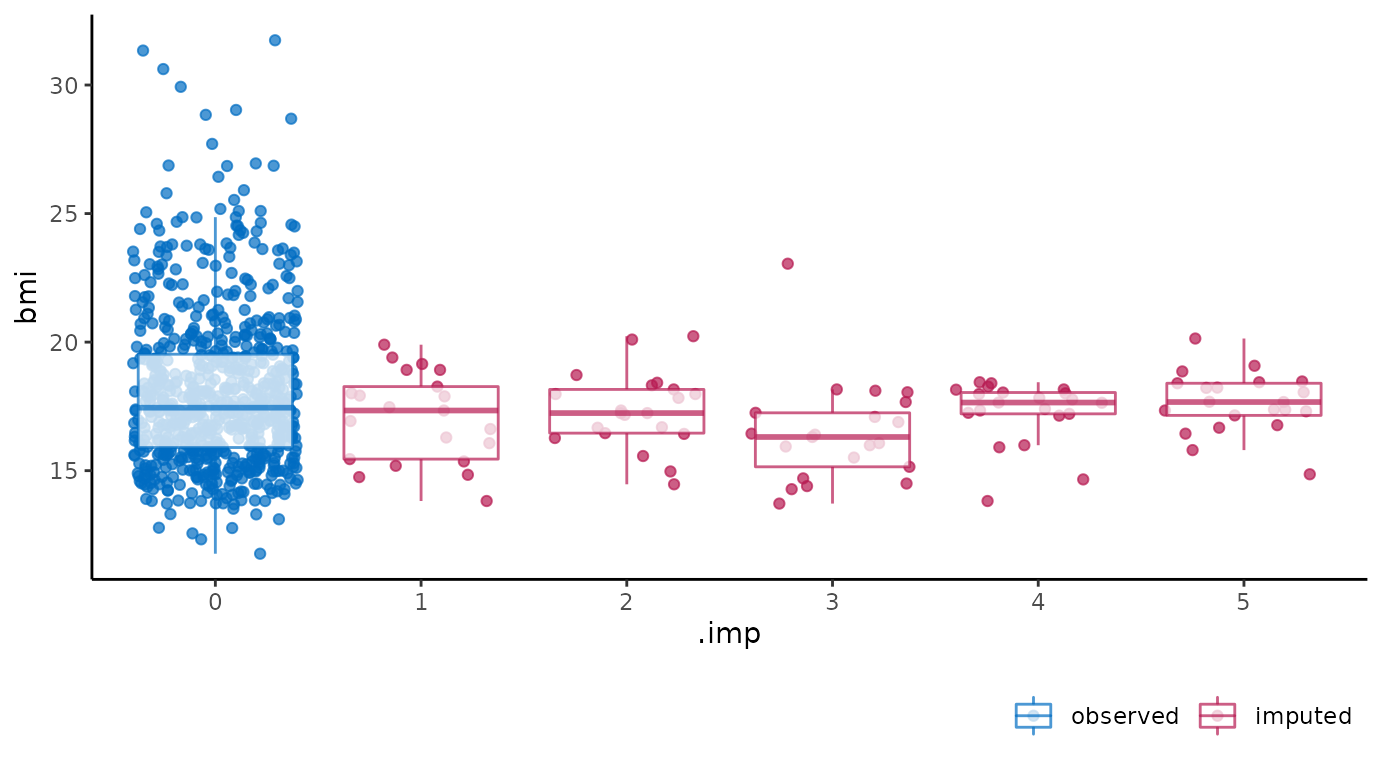
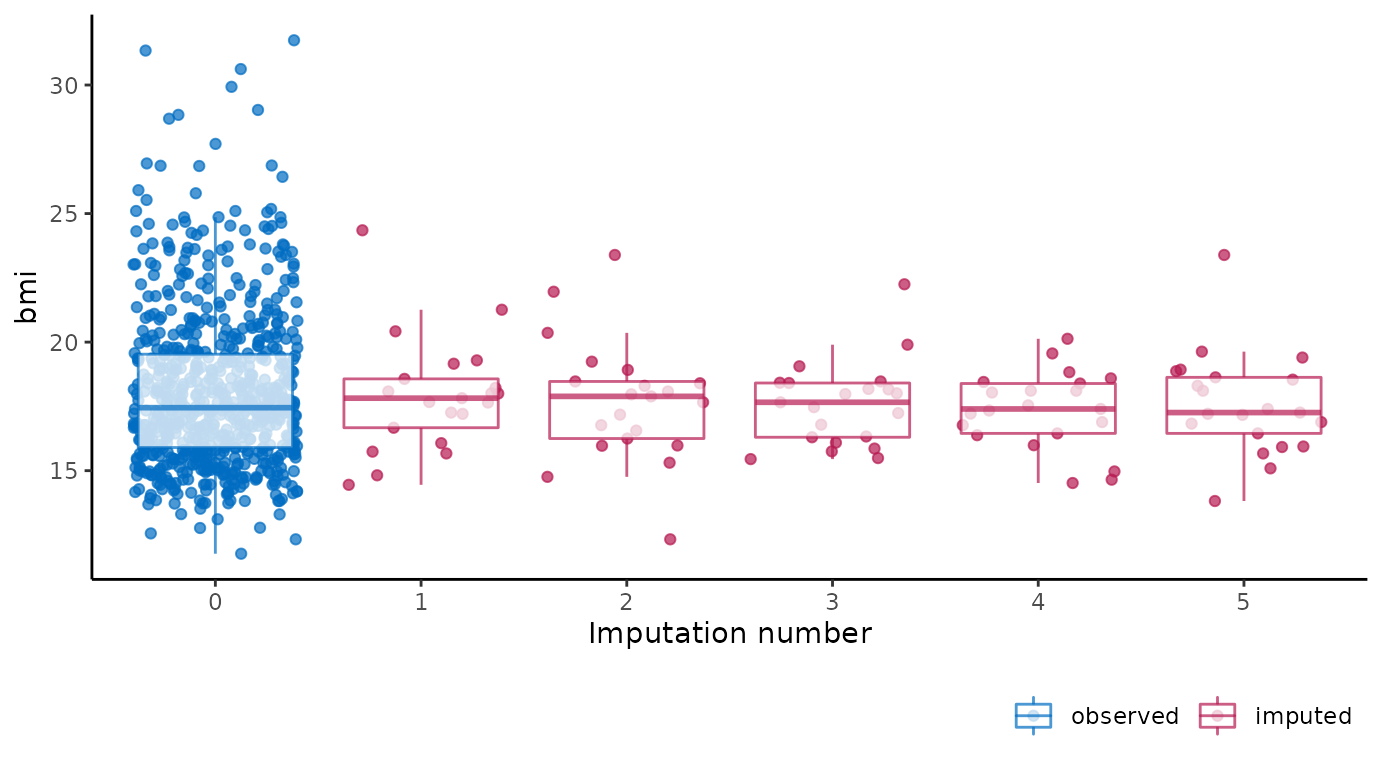
Built site for ggmice: 0.0.0.9000@277a587

diff --git a/articles/old_friends.html b/articles/old_friends.html
@@ -176,17 +176,25 @@
 <code class="sourceCode R"><span class="co"># ggmice equivalent</span>
 <span class="fu"><a href="../reference/plot_pattern.html">plot_pattern</a></span><span class="op">(</span><span class="va">dat</span><span class="op">)</span></code></pre></div>
 <p><img src="old_friends_files/figure-html/md.pattern-2.png" width="691.2"></p>
+<div class="sourceCode" id="cb12"><pre class="downlit sourceCode r">
+<code class="sourceCode R"><span class="co"># extended reproduction with ggmice</span>
+<span class="fu"><a href="../reference/plot_pattern.html">plot_pattern</a></span><span class="op">(</span><span class="va">dat</span>, square <span class="op">=</span> <span class="cn">TRUE</span><span class="op">)</span> <span class="op">+</span>
+  <span class="fu">ggplot2</span><span class="fu">::</span><span class="fu"><a href="https://ggplot2.tidyverse.org/reference/theme.html" class="external-link">theme</a></span><span class="op">(</span>legend.position <span class="op">=</span> <span class="st">"none"</span>,
+                 axis.title <span class="op">=</span> <span class="fu">ggplot2</span><span class="fu">::</span><span class="fu"><a href="https://ggplot2.tidyverse.org/reference/element.html" class="external-link">element_blank</a></span><span class="op">(</span><span class="op">)</span>,
+                 axis.title.x.top <span class="op">=</span> <span class="fu">ggplot2</span><span class="fu">::</span><span class="fu"><a href="https://ggplot2.tidyverse.org/reference/element.html" class="external-link">element_blank</a></span><span class="op">(</span><span class="op">)</span>,
+                 axis.title.y.right <span class="op">=</span> <span class="fu">ggplot2</span><span class="fu">::</span><span class="fu"><a href="https://ggplot2.tidyverse.org/reference/element.html" class="external-link">element_blank</a></span><span class="op">(</span><span class="op">)</span><span class="op">)</span></code></pre></div>
+<p><img src="old_friends_files/figure-html/md.pattern-3.png" width="691.2"></p>
 </div>
 <div class="section level2">
 <h2 id="plot-mids">
 <code>plot.mids</code><a class="anchor" aria-label="anchor" href="#plot-mids"></a>
 </h2>
 <p>Plot the trace lines of the MICE algorithm.</p>
-<div class="sourceCode" id="cb12"><pre class="downlit sourceCode r">
+<div class="sourceCode" id="cb13"><pre class="downlit sourceCode r">
 <code class="sourceCode R"><span class="co"># original plot</span>
 <span class="fu"><a href="https://rdrr.io/r/graphics/plot.default.html" class="external-link">plot</a></span><span class="op">(</span><span class="va">imp</span>, <span class="va">bmi</span> <span class="op">~</span> <span class="va">.it</span> <span class="op">|</span> <span class="va">.ms</span><span class="op">)</span></code></pre></div>
 <p><img src="old_friends_files/figure-html/plot.mids-1.png" width="691.2"></p>
-<div class="sourceCode" id="cb13"><pre class="downlit sourceCode r">
+<div class="sourceCode" id="cb14"><pre class="downlit sourceCode r">
 <code class="sourceCode R"><span class="co"># ggmice equivalent</span>
 <span class="fu"><a href="../reference/plot_trace.html">plot_trace</a></span><span class="op">(</span><span class="va">imp</span>, <span class="st">"bmi"</span><span class="op">)</span></code></pre></div>
 <p><img src="old_friends_files/figure-html/plot.mids-2.png" width="691.2"></p>
@@ -196,17 +204,17 @@
 <code>stripplot</code><a class="anchor" aria-label="anchor" href="#stripplot"></a>
 </h2>
 <p>Stripplot of observed and imputed data.</p>
-<div class="sourceCode" id="cb14"><pre class="downlit sourceCode r">
+<div class="sourceCode" id="cb15"><pre class="downlit sourceCode r">
 <code class="sourceCode R"><span class="co"># original plot</span>
 <span class="fu">mice</span><span class="fu">::</span><span class="fu"><a href="https://amices.org/mice/reference/stripplot.mids.html" class="external-link">stripplot</a></span><span class="op">(</span><span class="va">imp</span>, <span class="va">bmi</span> <span class="op">~</span> <span class="va">.imp</span><span class="op">)</span></code></pre></div>
 <p><img src="old_friends_files/figure-html/stripplot-1.png" width="691.2"></p>
-<div class="sourceCode" id="cb15"><pre class="downlit sourceCode r">
+<div class="sourceCode" id="cb16"><pre class="downlit sourceCode r">
 <code class="sourceCode R"><span class="co"># ggmice equivalent</span>
 <span class="fu"><a href="../reference/ggmice.html">ggmice</a></span><span class="op">(</span><span class="va">imp</span>, <span class="fu">ggplot2</span><span class="fu">::</span><span class="fu"><a href="https://ggplot2.tidyverse.org/reference/aes.html" class="external-link">aes</a></span><span class="op">(</span>x <span class="op">=</span> <span class="va">.imp</span>, y <span class="op">=</span> <span class="va">bmi</span><span class="op">)</span><span class="op">)</span> <span class="op">+</span>
   <span class="fu">ggplot2</span><span class="fu">::</span><span class="fu"><a href="https://ggplot2.tidyverse.org/reference/geom_jitter.html" class="external-link">geom_jitter</a></span><span class="op">(</span>width <span class="op">=</span> <span class="fl">0.25</span><span class="op">)</span> <span class="op">+</span>
   <span class="fu">ggplot2</span><span class="fu">::</span><span class="fu"><a href="https://ggplot2.tidyverse.org/reference/labs.html" class="external-link">labs</a></span><span class="op">(</span>x <span class="op">=</span> <span class="st">"Imputation number"</span><span class="op">)</span></code></pre></div>
 <p><img src="old_friends_files/figure-html/stripplot-2.png" width="691.2"></p>
-<div class="sourceCode" id="cb16"><pre class="downlit sourceCode r">
+<div class="sourceCode" id="cb17"><pre class="downlit sourceCode r">
 <code class="sourceCode R"><span class="co"># extended reproduction with ggmice (not recommended)</span>
 <span class="fu"><a href="../reference/ggmice.html">ggmice</a></span><span class="op">(</span><span class="va">imp</span>, <span class="fu">ggplot2</span><span class="fu">::</span><span class="fu"><a href="https://ggplot2.tidyverse.org/reference/aes.html" class="external-link">aes</a></span><span class="op">(</span>x <span class="op">=</span> <span class="va">.imp</span>, y <span class="op">=</span> <span class="va">bmi</span><span class="op">)</span><span class="op">)</span> <span class="op">+</span>
   <span class="fu">ggplot2</span><span class="fu">::</span><span class="fu"><a href="https://ggplot2.tidyverse.org/reference/geom_jitter.html" class="external-link">geom_jitter</a></span><span class="op">(</span>
@@ -229,16 +237,16 @@
 <code>xyplot</code><a class="anchor" aria-label="anchor" href="#xyplot"></a>
 </h2>
 <p>Scatterplot of observed and imputed data.</p>
-<div class="sourceCode" id="cb17"><pre class="downlit sourceCode r">
+<div class="sourceCode" id="cb18"><pre class="downlit sourceCode r">
 <code class="sourceCode R"><span class="co"># original plot</span>
 <span class="fu">mice</span><span class="fu">::</span><span class="fu"><a href="https://amices.org/mice/reference/xyplot.mids.html" class="external-link">xyplot</a></span><span class="op">(</span><span class="va">imp</span>, <span class="va">bmi</span> <span class="op">~</span> <span class="va">age</span><span class="op">)</span></code></pre></div>
 <p><img src="old_friends_files/figure-html/unnamed-chunk-2-1.png" width="691.2"></p>
-<div class="sourceCode" id="cb18"><pre class="downlit sourceCode r">
+<div class="sourceCode" id="cb19"><pre class="downlit sourceCode r">
 <code class="sourceCode R"><span class="co"># ggmice equivalent</span>
 <span class="fu"><a href="../reference/ggmice.html">ggmice</a></span><span class="op">(</span><span class="va">imp</span>, <span class="fu">ggplot2</span><span class="fu">::</span><span class="fu"><a href="https://ggplot2.tidyverse.org/reference/aes.html" class="external-link">aes</a></span><span class="op">(</span><span class="va">age</span>, <span class="va">bmi</span><span class="op">)</span><span class="op">)</span> <span class="op">+</span>
   <span class="fu">ggplot2</span><span class="fu">::</span><span class="fu"><a href="https://ggplot2.tidyverse.org/reference/geom_point.html" class="external-link">geom_point</a></span><span class="op">(</span><span class="op">)</span></code></pre></div>
 <p><img src="old_friends_files/figure-html/unnamed-chunk-2-2.png" width="691.2"></p>
-<div class="sourceCode" id="cb19"><pre class="downlit sourceCode r">
+<div class="sourceCode" id="cb20"><pre class="downlit sourceCode r">
 <code class="sourceCode R"><span class="co"># extended reproduction with ggmice</span>
 <span class="fu"><a href="../reference/ggmice.html">ggmice</a></span><span class="op">(</span><span class="va">imp</span>, <span class="fu">ggplot2</span><span class="fu">::</span><span class="fu"><a href="https://ggplot2.tidyverse.org/reference/aes.html" class="external-link">aes</a></span><span class="op">(</span><span class="va">age</span>, <span class="va">bmi</span><span class="op">)</span><span class="op">)</span> <span class="op">+</span>
   <span class="fu">ggplot2</span><span class="fu">::</span><span class="fu"><a href="https://ggplot2.tidyverse.org/reference/geom_point.html" class="external-link">geom_point</a></span><span class="op">(</span>size <span class="op">=</span> <span class="fl">2</span>, shape <span class="op">=</span> <span class="fl">1</span><span class="op">)</span> <span class="op">+</span>

diff --git a/articles/ggmice.html b/articles/ggmice.html
@@ -6,7 +6,7 @@
 <meta http-equiv="X-UA-Compatible" content="IE=edge">
 <meta name="viewport" content="width=device-width, initial-scale=1, shrink-to-fit=no">
 <meta name="description" content="ggmice">
-<title>Visualize incomplete and imputed data with `ggmice` • ggmice</title>
+<title>Get started • ggmice</title>
 <!-- favicons --><link rel="icon" type="image/png" sizes="16x16" href="../favicon-16x16.png">
 <link rel="icon" type="image/png" sizes="32x32" href="../favicon-32x32.png">
 <link rel="apple-touch-icon" type="image/png" sizes="180x180" href="../apple-touch-icon.png">
@@ -17,7 +17,7 @@
 <link href="../deps/bootstrap-5.1.0/bootstrap.min.css" rel="stylesheet">
 <script src="../deps/bootstrap-5.1.0/bootstrap.bundle.min.js"></script><!-- Font Awesome icons --><link rel="stylesheet" href="https://cdnjs.cloudflare.com/ajax/libs/font-awesome/5.12.1/css/all.min.css" integrity="sha256-mmgLkCYLUQbXn0B1SRqzHar6dCnv9oZFPEC1g1cwlkk=" crossorigin="anonymous">
 <link rel="stylesheet" href="https://cdnjs.cloudflare.com/ajax/libs/font-awesome/5.12.1/css/v4-shims.min.css" integrity="sha256-wZjR52fzng1pJHwx4aV2AO3yyTOXrcDW7jBpJtTwVxw=" crossorigin="anonymous">
-<!-- bootstrap-toc --><script src="https://cdn.rawgit.com/afeld/bootstrap-toc/v1.0.1/dist/bootstrap-toc.min.js"></script><!-- headroom.js --><script src="https://cdnjs.cloudflare.com/ajax/libs/headroom/0.11.0/headroom.min.js" integrity="sha256-AsUX4SJE1+yuDu5+mAVzJbuYNPHj/WroHuZ8Ir/CkE0=" crossorigin="anonymous"></script><script src="https://cdnjs.cloudflare.com/ajax/libs/headroom/0.11.0/jQuery.headroom.min.js" integrity="sha256-ZX/yNShbjqsohH1k95liqY9Gd8uOiE1S4vZc+9KQ1K4=" crossorigin="anonymous"></script><!-- clipboard.js --><script src="https://cdnjs.cloudflare.com/ajax/libs/clipboard.js/2.0.6/clipboard.min.js" integrity="sha256-inc5kl9MA1hkeYUt+EC3BhlIgyp/2jDIyBLS6k3UxPI=" crossorigin="anonymous"></script><!-- search --><script src="https://cdnjs.cloudflare.com/ajax/libs/fuse.js/6.4.6/fuse.js" integrity="sha512-zv6Ywkjyktsohkbp9bb45V6tEMoWhzFzXis+LrMehmJZZSys19Yxf1dopHx7WzIKxr5tK2dVcYmaCk2uqdjF4A==" crossorigin="anonymous"></script><script src="https://cdnjs.cloudflare.com/ajax/libs/autocomplete.js/0.38.0/autocomplete.jquery.min.js" integrity="sha512-GU9ayf+66Xx2TmpxqJpliWbT5PiGYxpaG8rfnBEk1LL8l1KGkRShhngwdXK1UgqhAzWpZHSiYPc09/NwDQIGyg==" crossorigin="anonymous"></script><script src="https://cdnjs.cloudflare.com/ajax/libs/mark.js/8.11.1/mark.min.js" integrity="sha512-5CYOlHXGh6QpOFA/TeTylKLWfB3ftPsde7AnmhuitiTX4K5SqCLBeKro6sPS8ilsz1Q4NRx3v8Ko2IBiszzdww==" crossorigin="anonymous"></script><!-- pkgdown --><script src="../pkgdown.js"></script><meta property="og:title" content="Visualize incomplete and imputed data with `ggmice`">
+<!-- bootstrap-toc --><script src="https://cdn.rawgit.com/afeld/bootstrap-toc/v1.0.1/dist/bootstrap-toc.min.js"></script><!-- headroom.js --><script src="https://cdnjs.cloudflare.com/ajax/libs/headroom/0.11.0/headroom.min.js" integrity="sha256-AsUX4SJE1+yuDu5+mAVzJbuYNPHj/WroHuZ8Ir/CkE0=" crossorigin="anonymous"></script><script src="https://cdnjs.cloudflare.com/ajax/libs/headroom/0.11.0/jQuery.headroom.min.js" integrity="sha256-ZX/yNShbjqsohH1k95liqY9Gd8uOiE1S4vZc+9KQ1K4=" crossorigin="anonymous"></script><!-- clipboard.js --><script src="https://cdnjs.cloudflare.com/ajax/libs/clipboard.js/2.0.6/clipboard.min.js" integrity="sha256-inc5kl9MA1hkeYUt+EC3BhlIgyp/2jDIyBLS6k3UxPI=" crossorigin="anonymous"></script><!-- search --><script src="https://cdnjs.cloudflare.com/ajax/libs/fuse.js/6.4.6/fuse.js" integrity="sha512-zv6Ywkjyktsohkbp9bb45V6tEMoWhzFzXis+LrMehmJZZSys19Yxf1dopHx7WzIKxr5tK2dVcYmaCk2uqdjF4A==" crossorigin="anonymous"></script><script src="https://cdnjs.cloudflare.com/ajax/libs/autocomplete.js/0.38.0/autocomplete.jquery.min.js" integrity="sha512-GU9ayf+66Xx2TmpxqJpliWbT5PiGYxpaG8rfnBEk1LL8l1KGkRShhngwdXK1UgqhAzWpZHSiYPc09/NwDQIGyg==" crossorigin="anonymous"></script><script src="https://cdnjs.cloudflare.com/ajax/libs/mark.js/8.11.1/mark.min.js" integrity="sha512-5CYOlHXGh6QpOFA/TeTylKLWfB3ftPsde7AnmhuitiTX4K5SqCLBeKro6sPS8ilsz1Q4NRx3v8Ko2IBiszzdww==" crossorigin="anonymous"></script><!-- pkgdown --><script src="../pkgdown.js"></script><meta property="og:title" content="Get started">
 <meta property="og:description" content="ggmice">
 <meta property="og:image" content="http://amices.org/ggmice/logo.png">
 <!-- mathjax --><script src="https://cdnjs.cloudflare.com/ajax/libs/mathjax/2.7.5/MathJax.js" integrity="sha256-nvJJv9wWKEm88qvoQl9ekL2J+k/RWIsaSScxxlsrv8k=" crossorigin="anonymous"></script><script src="https://cdnjs.cloudflare.com/ajax/libs/mathjax/2.7.5/config/TeX-AMS-MML_HTMLorMML.js" integrity="sha256-84DKXVJXs0/F8OTMzX4UR909+jtl4G7SPypPavF+GfA=" crossorigin="anonymous"></script><!--[if lt IE 9]>
@@ -80,7 +80,7 @@
 
 <script src="ggmice_files/accessible-code-block-0.0.1/empty-anchor.js"></script><div class="row">
   <main id="main"><div class="page-header">
-      <img src="../logo.png" class="logo" alt=""><h1>Visualize incomplete and imputed data with `ggmice`</h1>
+      <img src="../logo.png" class="logo" alt=""><h1>Get started</h1>
             
       
       <small class="dont-index">Source: <a href="https://github.com/amices/ggmice/blob/HEAD/vignettes/ggmice.Rmd" class="external-link"><code>vignettes/ggmice.Rmd</code></a></small>
@@ -90,7 +90,7 @@
     
     
 <div class="section level2">
-<h2 id="overview">Overview<a class="anchor" aria-label="anchor" href="#overview"></a>
+<h2 id="visualize-incomplete-and-imputed-data-with-ggmice">Visualize incomplete and imputed data with <code>ggmice</code><a class="anchor" aria-label="anchor" href="#visualize-incomplete-and-imputed-data-with-ggmice"></a>
 </h2>
 <p>The <code>ggmice</code> package provides plotting functions for the evaluation of incomplete data, <code>mice</code> imputation models, and multiply imputed data sets (<code><a href="https://amices.org/mice/reference/mids-class.html" class="external-link">mice::mids</a></code>). The functions in <code>ggmice</code> adhere to the ‘grammar of graphics’ philosophy, popularized by the <code>ggplot2</code> package. With that, <code>ggmice</code> enhances imputation workflows and provides plotting objects that are easily extended and manipulated by each individual ‘imputer’.</p>
 <p>This vignette gives an overview of the core plotting functions in <code>ggmice</code>. Experienced <code>mice</code> users may already be familiar with the <code>lattice</code> style plotting functions in <code>mice</code>. These ‘old friends’ such as <code><a href="https://amices.org/mice/reference/bwplot.mids.html" class="external-link">mice::bwplot()</a></code> can be re-created with <code>ggmice</code>, see <a href="https://amices.org/ggmice/articles/old_friends.html" class="external-link">this</a> vignette for advise.</p>
@@ -263,7 +263,8 @@
 <span class="co"># create stripplot with boxplot overlay</span>
 <span class="fu"><a href="../reference/ggmice.html">ggmice</a></span><span class="op">(</span><span class="va">imp</span>, <span class="fu"><a href="https://ggplot2.tidyverse.org/reference/aes.html" class="external-link">aes</a></span><span class="op">(</span>x <span class="op">=</span> <span class="va">.imp</span>, y <span class="op">=</span> <span class="va">bmi</span><span class="op">)</span><span class="op">)</span> <span class="op">+</span> 
   <span class="fu"><a href="https://ggplot2.tidyverse.org/reference/geom_jitter.html" class="external-link">geom_jitter</a></span><span class="op">(</span>height <span class="op">=</span> <span class="fl">0</span><span class="op">)</span> <span class="op">+</span>
-  <span class="fu"><a href="https://ggplot2.tidyverse.org/reference/geom_boxplot.html" class="external-link">geom_boxplot</a></span><span class="op">(</span>fill <span class="op">=</span> <span class="st">"white"</span>, alpha <span class="op">=</span> <span class="fl">0.75</span>, outlier.shape <span class="op">=</span> <span class="cn">NA</span><span class="op">)</span></code></pre></div>
+  <span class="fu"><a href="https://ggplot2.tidyverse.org/reference/geom_boxplot.html" class="external-link">geom_boxplot</a></span><span class="op">(</span>fill <span class="op">=</span> <span class="st">"white"</span>, alpha <span class="op">=</span> <span class="fl">0.75</span>, outlier.shape <span class="op">=</span> <span class="cn">NA</span><span class="op">)</span> <span class="op">+</span>
+  <span class="fu"><a href="https://ggplot2.tidyverse.org/reference/labs.html" class="external-link">labs</a></span><span class="op">(</span>x <span class="op">=</span> <span class="st">"Imputation number"</span><span class="op">)</span></code></pre></div>
 <p><img src="ggmice_files/figure-html/imputed-4.png" width="691.2"></p>
 </div>
 </div>

diff --git a/index.html b/index.html
@@ -122,6 +122,11 @@
 <p><img src="reference/figures/README-example-2.png" width="100%"></p>
 </div>
 <div class="section level2">
+<h2 id="acknowledgement">Acknowledgement<a class="anchor" aria-label="anchor" href="#acknowledgement"></a>
+</h2>
+<p>The <code>ggmice</code> hex is based on the <code>ggplot2</code> hex and the <code>mice</code> hex (designed by Jaden M. Walters).</p>
+</div>
+<div class="section level2">
 <h2 id="code-of-conduct">Code of Conduct<a class="anchor" aria-label="anchor" href="#code-of-conduct"></a>
 </h2>
 <p>Please note that the <code>ggmice</code> project is released with a <a href="http://amices.org/ggmice/CODE_OF_CONDUCT.html">Contributor Code of Conduct</a>. By contributing to this project, you agree to abide by its terms.</p>

diff --git a/articles/index.html b/articles/index.html
@@ -56,7 +56,7 @@
       <h3>All vignettes</h3>
       <p class="section-desc"></p>
 
-      <dl><dt><a href="ggmice.html">Visualize incomplete and imputed data with `ggmice`</a></dt>
+      <dl><dt><a href="ggmice.html">Get started</a></dt>
         <dd>
         </dd><dt><a href="old_friends.html">Old friends</a></dt>
         <dd>
